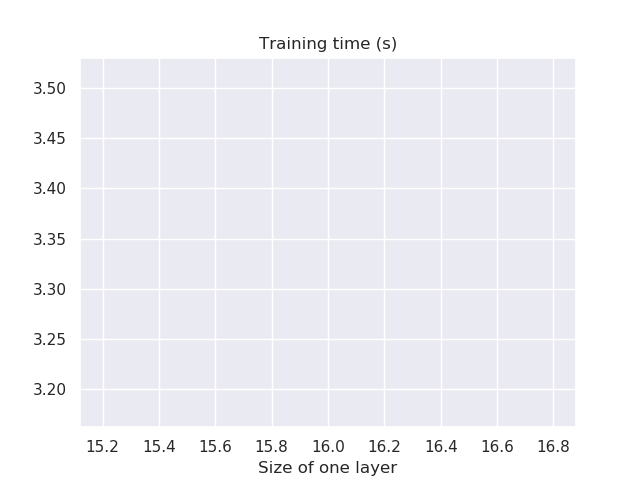
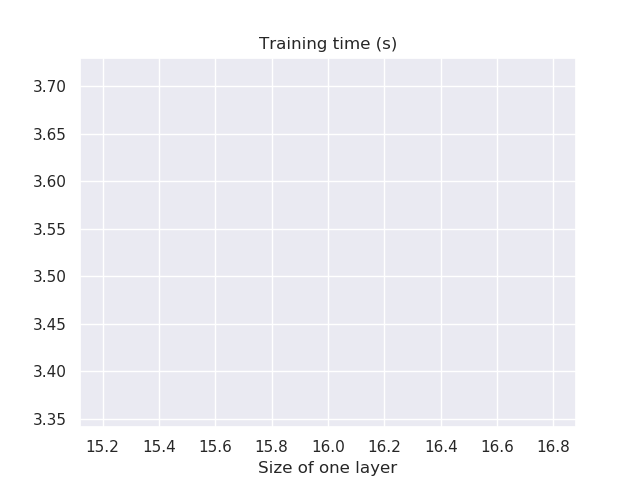
latest

diff --git a/src/Census_Eval_NN_Synth.py b/src/Census_Eval_NN_Synth.py
@@ -1,0 +1,115 @@
+#!/usr/bin/env python
+# coding: utf-8
+
+# In[1]:
+
+
+import numpy as np
+import pandas as pd
+import time
+import graphviz
+import seaborn as sbn
+import matplotlib.pyplot as plt
+from sklearn import tree
+from sklearn import preprocessing
+from sklearn.neural_network import MLPClassifier
+import keras
+from keras.models import Sequential
+from keras.layers import Dense
+from sklearn.preprocessing import StandardScaler
+from sklearn.model_selection import train_test_split
+import time
+
+
+# In[2]:
+
+
+def Accuracy(predicted, truth):
+    correct = 0
+    for i in range(len(predicted)):
+        if predicted[i]==truth.iloc[i]:
+            correct +=1
+    return correct/len(predicted)
+
+
+# In[3]:
+
+
+#ks = [1,2,4,8,16,32,64]
+
+
+# In[4]:
+def train_and_eval(layers, size_of_layers, epochs):
+
+
+    census_data = pd.read_csv('census/out/correlated_attribute_mode/sythetic_data.csv',header = 0,sep=',',engine='python',na_values='?')
+    census_test = pd.read_csv('census/adult_test.csv',header = 0,sep=', ',engine='python',na_values='?')
+    
+    data_feature = census_data.drop(columns=['income']).copy()
+    data_label = census_data['income'].copy()
+
+    test_feature = census_test.drop(columns=['income']).copy()
+    test_label = census_test['income'].copy()
+
+    for i in range(len(test_label)):
+        test_label.loc[i]=str(test_label.loc[i]).strip('.')
+        
+    #Converting labels to 0-1
+    for i in range(data_label.shape[0]):
+        data_label.iloc[i]=int("<" in data_label.iloc[i])
+    for i in range(test_label.shape[0]):
+        test_label.iloc[i]=int("<" in test_label.iloc[i])
+    
+    anonimizeds = ['age', 'education-num','race','native-country','workclass','hours-per-week','sex']
+    cols = data_feature.columns.values
+
+    for col in cols:
+        start = col.split('_')[0]
+        if start not in anonimizeds:
+            data_feature.drop(columns=[col],inplace=True)
+            test_feature.drop(columns=[col],inplace=True)
+            
+###############################################################################################################
+    sc = StandardScaler()
+    data_feature = sc.fit_transform(data_feature)
+    test_feature = sc.transform(test_feature)
+
+    data_feature, val_feature, data_label, val_label = train_test_split(data_feature, data_label, test_size=0.15, random_state=42,stratify = data_label)
+
+    #SIZES = [32,64]
+    SIZES = [int(size_of_layers)]
+    times_scal = np.zeros(len(SIZES))
+    accs_scal = np.zeros(len(SIZES))
+
+    for i in range(len(SIZES)):
+        classifier = Sequential()
+        # Adding the input layer and the first hidden layer
+        classifier.add(Dense(output_dim = SIZES[i], init = 'uniform', activation = 'relu', input_dim = data_feature.shape[1]))
+        # Adding the second hidden layer
+        classifier.add(Dense(output_dim = SIZES[i], init = 'uniform', activation = 'relu'))
+        # Adding the output layer
+        classifier.add(Dense(output_dim = 1, init = 'uniform', activation = 'sigmoid'))
+
+        classifier.compile(optimizer = 'adam', loss = 'binary_crossentropy', metrics = ['accuracy'])
+        clb = [keras.callbacks.EarlyStopping(monitor='val_loss', min_delta=0, patience=5, verbose=0, mode='auto', baseline=None, restore_best_weights=True)]
+        start = time.time()
+        classifier.fit(data_feature, data_label, batch_size = 8, nb_epoch = int(epochs),validation_data=(val_feature,val_label),callbacks=clb)
+        times_scal[i]=time.time()-start
+        y_pred = classifier.predict(test_feature)
+        y_pred = np.array([int(y>0.5) for y in y_pred])
+        accs_scal[i]=Accuracy(y_pred,test_label)
+    
+    plt.figure()
+    plt.plot(SIZES,times_scal,label = "Scaled")
+    plt.xlabel("Size of one layer")
+    plt.title("Training time (s)")
+    plt.legend()
+    plt.savefig("CensusIncome_NN_traintime_hpwsex"+"synthetic_data"+".png")
+    
+    plt.figure()
+    plt.plot(SIZES,accs_scal*100,label = "Scaled")
+    plt.xlabel("Size of one layer")
+    plt.title("Accuracy (%)")
+    plt.legend()
+    plt.savefig("CensusIncome_NN_Accuracy_hpwsex"+"synthetic_data"+".png")
+

diff --git a/src/Titanic_Eval_NN_Synth.py b/src/Titanic_Eval_NN_Synth.py
@@ -1,0 +1,104 @@
+#!/usr/bin/env python
+# coding: utf-8
+
+# In[1]:
+
+
+import numpy as np
+import pandas as pd
+import time
+import graphviz
+import seaborn as sbn
+import matplotlib.pyplot as plt
+from sklearn import tree
+from sklearn import preprocessing
+from sklearn.neural_network import MLPClassifier
+
+
+# In[2]:
+
+
+def Accuracy(predicted, truth):
+    correct = 0
+    for i in range(len(predicted)):
+        if predicted[i]==truth.iloc[i]:
+            correct +=1
+    return correct/len(predicted)
+
+
+# In[3]:
+
+
+#ks = [1,2,4,8,16,32,64]
+
+
+# In[4]:
+def train_and_eval(layers, size_of_layers, epochs):
+
+
+    census_data = pd.read_csv('titanic/out/correlated_attribute_mode/sythetic_data.csv',header = 0,sep=',',engine='python',na_values='?')
+    census_test = pd.read_csv('titanic/test.csv',header = 0,sep=',',engine='python',na_values='?')
+
+    #census_data.drop(census_data.columns[0], axis=1,inplace = True)
+    census_test.drop(columns=['Name'], axis=1,inplace = True)
+    census_test.drop(columns=['Ticket'], axis=1,inplace = True)
+    census_test.drop(columns=['PassengerId'], axis=1,inplace = True)
+
+    print(census_data.head())
+
+    data_feature = census_data.drop(columns=['Survived']).copy()
+    data_label = census_data['Survived'].copy()
+
+    test_feature = census_test.drop(columns=['Survived']).copy()
+    test_label = census_test['Survived'].copy()
+    
+    for i in range(data_label.shape[0]):
+        data_label.iloc[i]=int("1" in str(data_label.iloc[i]))
+    for i in range(test_label.shape[0]):
+        test_label.iloc[i]=int("1" in str(test_label.iloc[i]))
+    
+    import keras
+    from keras.models import Sequential
+    from keras.layers import Dense
+    from sklearn.preprocessing import StandardScaler
+    from sklearn.model_selection import train_test_split
+    import time
+
+    data_feature, val_feature, data_label, val_label = train_test_split(data_feature, data_label, test_size=0.15, random_state=42,stratify = data_label)
+
+    #SIZES = [4,8,16]
+    SIZES = [int(size_of_layers)]
+    times = np.zeros(len(SIZES))
+    accs = np.zeros(len(SIZES))
+    NAVG = 3
+    for i in range(len(SIZES)):
+        for counter in range(NAVG):
+            classifier = Sequential()
+            # Adding the input layer and the first hidden layer
+            classifier.add(Dense(output_dim = SIZES[i], init = 'uniform', activation = 'relu', input_dim = data_feature.shape[1]))
+            # Adding the second hidden layer
+            classifier.add(Dense(output_dim = SIZES[i], init = 'uniform', activation = 'relu'))
+            # Adding the output layer
+            classifier.add(Dense(output_dim = 1, init = 'uniform', activation = 'sigmoid'))
+
+            classifier.compile(optimizer = 'adam', loss = 'binary_crossentropy', metrics = ['accuracy'])
+            clb = [keras.callbacks.EarlyStopping(monitor='val_loss', min_delta=0, patience=5, verbose=0, mode='auto', baseline=None, restore_best_weights=True)]
+            start = time.time()
+            classifier.fit(data_feature, data_label, batch_size = 8, nb_epoch = int(epochs),validation_data=(val_feature,val_label),callbacks=clb)
+            times[i]+=(time.time()-start)/NAVG
+            y_pred = classifier.predict(test_feature)
+            y_pred = np.array([int(y>0.5) for y in y_pred])
+            accs[i]+=Accuracy(y_pred,test_label)/NAVG
+    
+    plt.figure()
+    plt.plot(SIZES,times)
+    plt.xlabel("Size of one layer")
+    plt.title("Training time (s)")
+    plt.savefig('Titanic_traintimes_'+"synthetic_data"+".png")
+    
+    plt.figure()
+    plt.plot(SIZES,accs*100)
+    plt.xlabel("Size of one layer")
+    plt.title("Accuracy (%)")
+    plt.savefig('Titanic_accuracy_'+"synthetic_data"+".png")
+

diff --git a/src/main.py b/src/main.py
@@ -6,6 +6,8 @@ import census_correlated
 import titanic_correlated
 import Census_Eval_NN
 import Titanic_Eval_NN
+import Census_Eval_NN_Synth
+import Titanic_Eval_NN_Synth
 
 
 data, model, anonimity, param, k_values, do_ano = cli.parse()
@@ -27,15 +29,17 @@ if data == 'census':
 	if model == 'decisiontree':
 		#ci_decisiontrees.rest()
 		# call method that does training and evaluation based on parsed parameters
-		print(param[0])
-		print(param[1])
+		print('not implemented')
 	elif model == 'knn':
 		#ci_decisiontrees.rest()
 		# call method that does training and evaluation based on parsed parameters
-		print(param[0])
+		print('not implemented')
 	elif model == 'neuralnetwork':
 		# call method that does training and evaluation based on parsed parameters
-		Census_Eval_NN.train_and_eval(k_values, param[0], param[1], param[2])
+		if anonimity == 'gen':
+			Census_Eval_NN.train_and_eval(k_values, param[0], param[1], param[2])
+		else:
+			Census_Eval_NN_Synth.train_and_eval(param[0], param[1], param[2])
 	else:
 		print('no more implemented ml models')
 elif data == 'titanic':
@@ -54,15 +58,17 @@ elif data == 'titanic':
 	if model == 'decisiontree':
 		#ci_decisiontrees.rest()
 		# call method that does training and evaluation based on parsed parameters
-		print(param[0])
-		print(param[1])
+		print('not implemented')
 	elif model == 'knn':
 		#ci_decisiontrees.rest()
 		# call method that does training and evaluation based on parsed parameters
-		print(param[0])
+		print('not implemented')
 	elif model == 'neuralnetwork':
 		# call method that does training and evaluation based on parsed parameters
-		Titanic_Eval_NN.train_and_eval(k_values, param[0], param[1], param[2])
+		if anonimity == 'gen':
+			Titanic_Eval_NN.train_and_eval(k_values, param[0], param[1], param[2])
+		else:
+			Titanic_Eval_NN_Synth.train_and_eval(param[0], param[1], param[2])
 	else:
 		print('no more implemented ml models')
 else:
